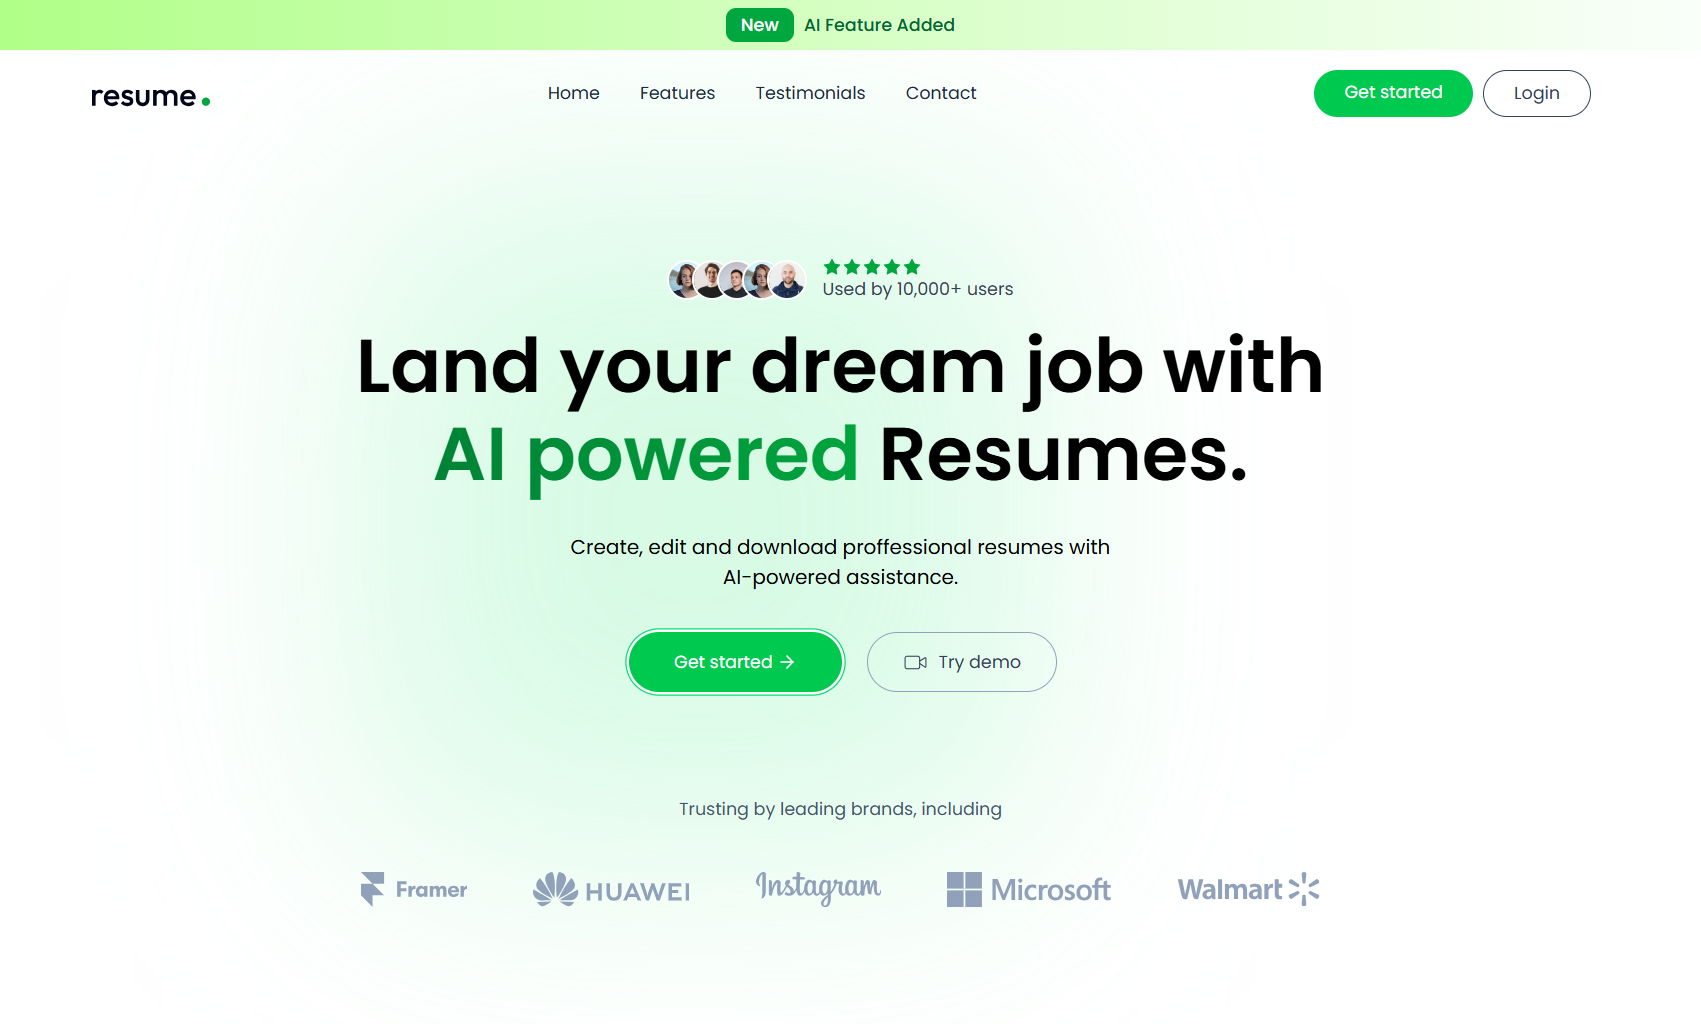
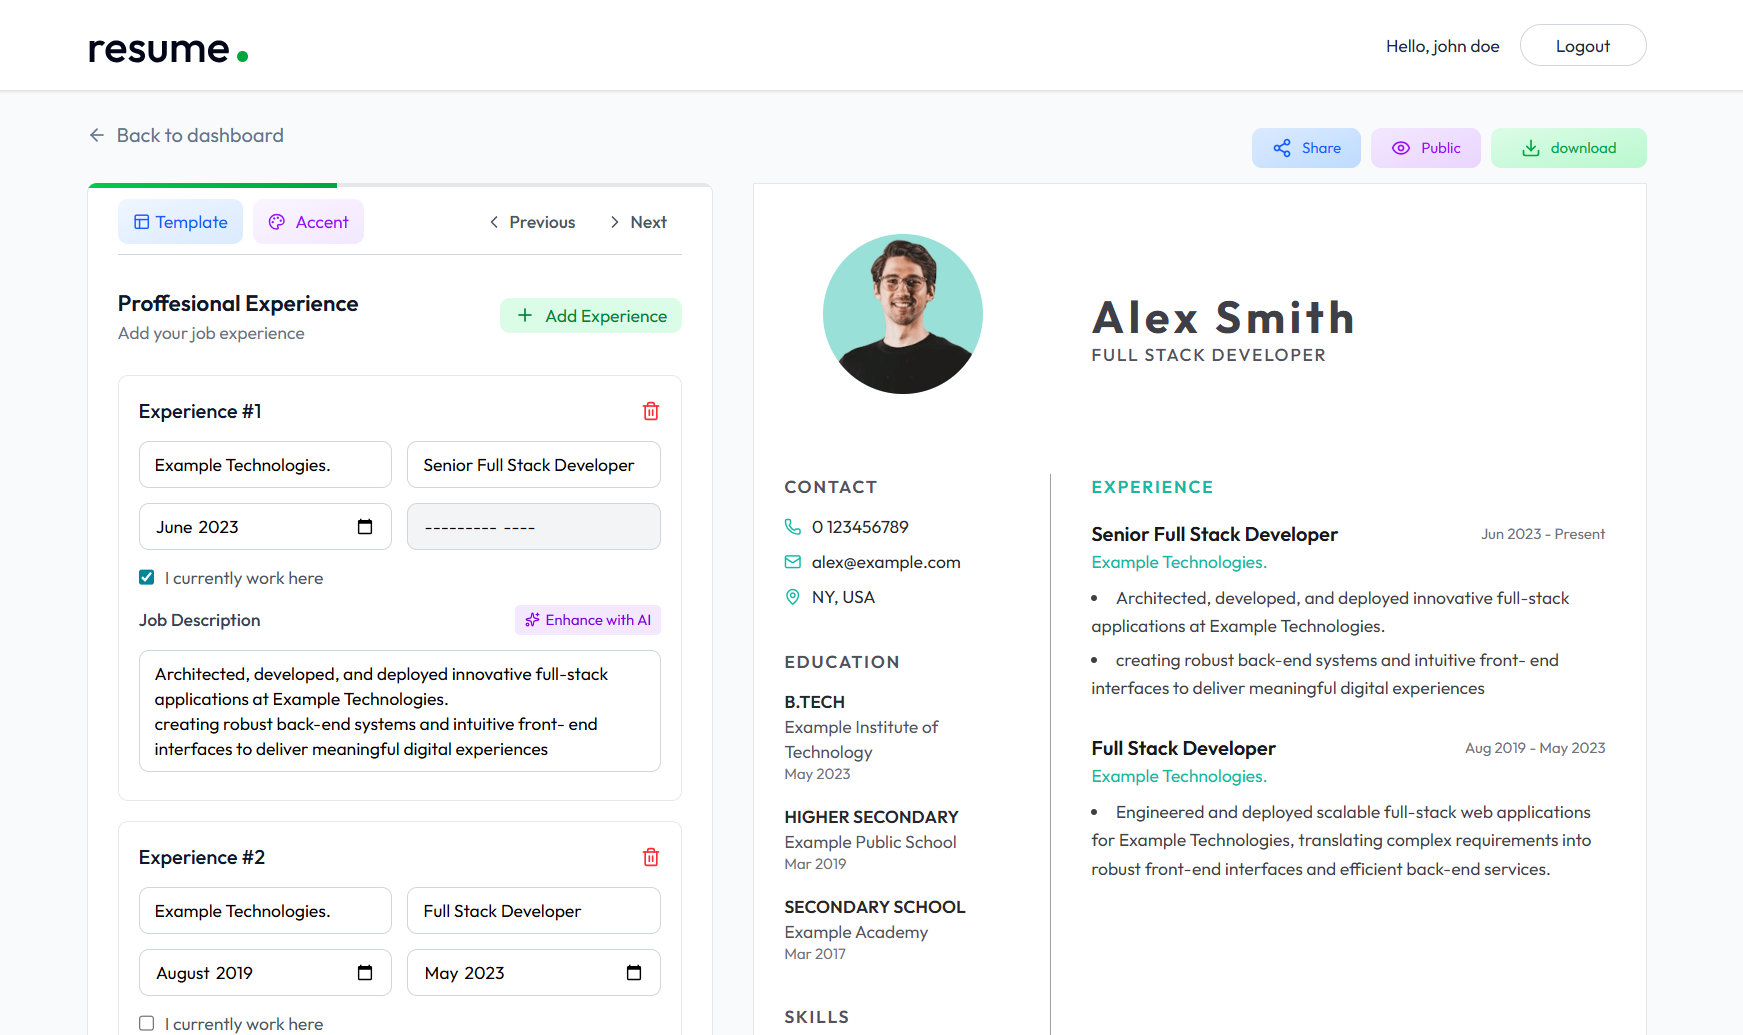
...

diff --git a/src/components/Projects.js b/src/components/Projects.js
@@ -9,27 +9,23 @@ const Projects = () => {
       img: assets.sprivaten,
       title: "PIXEL-PERFECT VISUAL DESIGN",
       languages: ["html", "css"],
-      link: "https://sprivaten.netlify.app/",
+      githubLink: "https://github.com/giorgi583/final-project.git",
+      link: "https://giorgi583.github.io/final-project/",
       accents: ["pixel-perfect", "responsive", "accessibility", "semantic HTML", "CSS-only burger menu", "best practices", "SEO-friendly", "performance optimization"]
-    },
-    {
-      img: assets.ecommerce,
-      title: "E-COMMERCE WEBSITE",
-      languages: ["html", "css", "javascript"],
-      link: "https://ecommerce.netlify.app/",
-      accents: ["Theme preference (dark/light)", "FIlters and sorting", "responsive", "carousel", "accessibility", "Full form validations", "API integration", "multiple pages", "SEO-friendly", ]
     },
     {
       img: assets.movies,
       title: "MOVIES APP",
       languages: ["React", "Plain css"],
-      link: "https://moviesapp.netlify.app/",
+      githubLink: "https://github.com/giorgi583/react_final.git",
+      link: "https://giorgi583.github.io/react_final/",
       accents: ["Real APIs", "responsive", "Routes", "Real authorization/authentication", "multi-language", "theme prefference", "Skeleton loading", "product search", "pagination", "lazy loading", "movie details-page" ]
     },
     {
       img: assets.tictactoe,
       title: "TIC-TAC-TOE GAME",
       languages: ["React", "Plain css"],
+      githubLink: "https://github.com/giorgi583/Tic-tac-toe-game.git",
       link: "https://tictactoe.netlify.app/",
       accents: ["Game logic", "responsive", "colors prefference", "vs computer", "vs friend", "scoreboard", "reset game", "animations", "computer dificulties", "sounds" ]
     },
@@ -37,15 +33,33 @@ const Projects = () => {
       img: assets.aiagency,
       title: "AGENCY-AI LANDING PAGE",
       languages: ["React/vite", "Tailwind css"],
+      githubLink: "https://github.com/giorgi583/Agency-AI.git",
       link: "https://aia.netlify.app/",
       accents: ["motion effects", "custom cursor", "Real Form submission", "responsive", "theme prefference(dark/light)", "toast notifications",  "modern design", "smooth animations" ]
     },
     {
       img: assets.resume,
       title: "AI RESUME BUILDER",
-      languages: ["React/vite", "Tailwind css", "Nodejs", "Express", "MongoDB"],
+      languages: ["React/vite", "Tailwind css", "Nodejs", "MongoDB"],
+      githubLink: "https://github.com/giorgi583/Resume-builder-website.git",
       link: "https://resumebuilderai.netlify.app/",
-      accents: ["AI integration", "Full-stack", "Real Authorization/authentication", "responsive", "API integration", "theme prefference(accent colors)", "user-friendly",  "modern design", "smooth animations" ]
+      accents: [ "Full-stack", "Real authentication", "AI features", "responsive", "API integration", "theme prefference(accent colors)", "user-friendly",  "modern design", "routes" ]
+    },
+    {
+      img: assets.ecommerce,
+      title: "E-COMMERCE STORE",
+      languages: ["React/vite", "Tailwind css", "Nodejs", "PostgreSQL"],
+      githubLink: "https://github.com/giorgi583/e-commerce.git",
+      link: "https://ecommercestore.netlify.app/",
+      accents: [ "Full-stack", "Real Authorization/authentication", "admin pages", "responsive", "Lazy loading", "user-friendly", "pagination", "filtering",  "API integration",  "routes" ]
+    },
+    {
+      img: assets.financial,
+      title: "FINANCIAL TRACKER",
+      languages: ["React/vite", "Tailwind css", "Nodejs", "PostgreSQL"],
+      githubLink: "https://github.com/giorgi583/financial-tracker.git",
+      link: "https://financial.netlify.app/",
+      accents: [ "Full-stack", "Real authentication", "responsive", "multi-language", "API integration", "theme prefference(accent colors && dark/light)", "user-friendly",  "modern design", "routes", "anaytics" ]
     }
   ]
   return (

diff --git a/src/components/Experience.js b/src/components/Experience.js
@@ -2,7 +2,7 @@ import React from 'react'
 import { color, motion } from 'motion/react'
 import '@fortawesome/fontawesome-free/css/all.min.css';
 const Experience = () => {
-  const exp = [{language: 'HTML',  icon: <i class="fa-brands fa-html5"></i>, color: '#e34f26'}, {language: 'CSS', icon: <i class="fa-brands fa-css3-alt"></i>, color: '#264de4'}, {language: 'JavaScript', icon: <i class="fa-brands fa-js"></i>, color: '#f7df1e'}, {language: 'Node.js', icon: <i class="fa-brands fa-node-js"></i>, color: '#68a063'}, {language: 'React', icon: <i class="fa-brands fa-react"></i>, color: '#61dbfb'}, {language: 'Sass', icon: <i class="fa-brands fa-sass"></i>, color: '#c69'}, {language: 'Figma', icon: <i class="fa-brands fa-figma"></i>, color: '#f24e1e'}, {language: 'Git', icon: <i class="fa-brands fa-git-alt"></i>, color: '#f34f29'}, {language: 'GitHub', icon: <i class="fa-brands fa-github"></i>, color: '#000000'}, {language: 'Tailwind', icon: <i class="fa-brands fa-tailwind-css"></i>, color: '#06b6d4'}, {language: 'Bootstrap', icon: <i class="fa-brands fa-bootstrap"></i>, color: '#7952b3'}, {language: 'NPM', icon: <i class="fa-brands fa-npm"></i>, color: '#cb3837'}, {language: 'express', icon: <i class="fa-solid fa-server"></i>, color: '#000000'}, {language: 'MongoDB', icon: <i class="fa-brands fa-mdb"></i>, color: '#4db33d'}, {language: 'PostgreSQL', icon: <i class="fa-solid fa-database"></i>, color: '#00758f'}, {language: 'TypeScript', icon: <i class="fa-brands fa-typescript"></i>, color: '#007acc'}]
+  const exp = [{language: 'HTML',  icon: <i class="fa-brands fa-html5"></i>, color: '#e34f26'}, {language: 'CSS', icon: <i class="fa-brands fa-css3-alt"></i>, color: '#264de4'}, {language: 'JavaScript', icon: <i class="fa-brands fa-js"></i>, color: '#f7df1e'}, {language: 'Node.js', icon: <i class="fa-brands fa-node-js"></i>, color: '#68a063'}, {language: 'React', icon: <i class="fa-brands fa-react"></i>, color: '#61dbfb'}, {language: 'Figma', icon: <i class="fa-brands fa-figma"></i>, color: '#f24e1e'}, {language: 'Git', icon: <i class="fa-brands fa-git-alt"></i>, color: '#f34f29'}, {language: 'Docker', icon: <i class="fa-brands fa-docker"></i>, color: '#2495ff'}, {language: 'Tailwind', icon: <i class="fa-brands fa-tailwind-css"></i>, color: '#06b6d4'}, {language: 'Linux', icon: <i class="fa-brands fa-linux"></i>, color: '#4700b1'},  {language: 'NPM', icon: <i class="fa-brands fa-npm"></i>, color: '#cb3837'}, {language: 'express', icon: <i class="fa-solid fa-server"></i>, color: '#000000'}, {language: 'MongoDB', icon: <i class="fa-brands fa-mdb"></i>, color: '#4db33d'}, {language: 'PostgreSQL', icon: <i class="fa-brands fa-postgresql"></i>, color: '#00758f'}, {language: 'TypeScript', icon: <i class="fa-brands fa-typescript"></i>, color: '#007acc'}, {language: 'Python', icon: <i class="fa-brands fa-python"></i>, color: '#3776ab'}]
   return (
     <section className="section2" id='skills'>
       <div className="container">

diff --git a/src/index.css b/src/index.css
@@ -117,7 +117,7 @@ i {
   z-index: 1000;
 }
 .rocket {
-  animation: rocket 0.1s linear infinite;
+  animation: rocket 0.1s linear infinite alternate;
   transform: rotate(45deg);
   color: var(--primary);
   
@@ -127,7 +127,7 @@ i {
     transform: translateX(0);
   }
   50% {
-    transform: translateX(-200%);
+    transform: translateX(-400%);
   }
   100% {
     transform: translateX(0);
@@ -293,9 +293,8 @@ button {
 .profileimage {
   width: 174.21px;
   margin: auto;
-  margin-top: 49px;
-  margin-bottom: 40px;
-  filter: grayscale(100%);
+  margin-top: 60px;
+  margin-bottom: 30px;
   animation: float 5s ease-in-out infinite;
 }
 @keyframes float {
@@ -600,7 +599,6 @@ form button {
   max-width: 100%;
   gap: 10px;
   flex-wrap: nowrap;
-  transition: all 5s linear;
 }
 .conttext p {
   margin: 0;
@@ -616,7 +614,7 @@ form button {
   align-items: center;
 }
 .card:hover .emphasis {
-  animation: scroll 10s linear infinite;
+  animation: scroll 15s linear infinite;
 }
 .emphasis:hover {
   animation-play-state: paused !important;
@@ -778,7 +776,20 @@ flex-shrink: 0;
     cursor: pointer;
     transform: scale(1.3);
   }
-  
+  .card:hover .emphasis {
+  animation: scroll 15s linear infinite;
+}
+  @keyframes scroll {
+  0% {
+    transform: translateX(0);
+  }
+  50% {
+    transform: translateX(-400%);
+  }
+  100% {
+    transform: translateX(0);
+  }
+}
   .expdivs {
     grid-template-columns: repeat(2, 1fr);
   }
@@ -943,6 +954,20 @@ flex-shrink: 0;
     font-size: 2rem;
     letter-spacing: -0.44px;
   }
+   .card:hover .emphasis {
+  animation: scroll 15s linear infinite;
+}
+  @keyframes scroll {
+  0% {
+    transform: translateX(0);
+  }
+  50% {
+    transform: translateX(-200%);
+  }
+  100% {
+    transform: translateX(0);
+  }
+}
     .section1 {
     position: relative;
     display: flex;

diff --git a/src/components/ProjectsCard.js b/src/components/ProjectsCard.js
@@ -7,8 +7,8 @@ const ProjectsCard = ({project}) => {
     variants={{"hidden": {y: 20, opacity: 0}, "visible": {y: 0, opacity: 1}}}
     className="card">
           <div className="cardimg"><img className="cardimage" src={project.img} alt=""/>
-            <div className="overlay"> <button className="deskbtn">view project</button> <button className="deskbtn">view
-                code</button></div>
+            <div className="overlay"> <button className="deskbtn"><a href={project.link} target="_blank" rel="noopener noreferrer">view project</a></button> <button className="deskbtn"><a href={project.githubLink} target="_blank" rel="noopener noreferrer">view
+                code</a></button></div>
           </div>
           <h3 className="s3h3">{project.title}</h3>
           <div className="cardp">
@@ -16,16 +16,18 @@ const ProjectsCard = ({project}) => {
             <p>ACCENTS:</p> 
             <ul className="emphasis">
               {project.accents && project.accents.map((item, index) => (
+        
                 <li className="s3li" key={index} >
-                  <Check size={16} />
+                  <Check size={16} color="#f7df1e"/>
                   {item}
                 </li>
+              
               ))}
             </ul>
           </div>
           <div className="cardbtns">
-            <button className="btn">view project</button>
-            <button className="btn">view code</button>
+            <button className="btn"><a href={project.link} target="_blank" rel="noopener noreferrer">view project</a></button>
+            <button className="btn"><a href={project.githubLink} target="_blank" rel="noopener noreferrer">view code</a></button>
           </div>
         </motion.div>
   )

diff --git a/src/components/Footer.js b/src/components/Footer.js
@@ -73,12 +73,12 @@ Toast.error(error.message)
       <h1>Socials</h1>
       <nav>
         <ul>
-          <li><a target="_blank" href="https://github.com/giorgi583"><i className="fa-brands fa-github"></i></a></li>
-          <li><a target="_blank" href="https://www.frontendmentor.io/profile/giorgi583" className="frontend"><img
+          <li><a target="_blank" aria-label='view my github' href="https://github.com/giorgi583"><i className="fa-brands fa-github"></i></a></li>
+          <li><a target="_blank" aria-label='view my frontend' href="https://www.frontendmentor.io/profile/giorgi583" className="frontend"><img
                 src={theme === "dark" ? assets.frontend : assets.frontendBlack} alt="frontend icon" width="19.68"/></a></li>
-          <li><a target="_blank" href="https://www.linkedin.com/in/giorgi-kutateladze-45086323b/"><i
+          <li><a target="_blank" aria-label='view my linkedin' href="https://www.linkedin.com/in/giorgi-kutateladze-45086323b/"><i
                 className="fa-brands fa-linkedin"></i></a></li>
-          <li><a target="_blank" href="https://www.facebook.com/giorgi.kutateladze.14"><i
+          <li><a target="_blank" aria-label='view my facebook' href="https://www.facebook.com/giorgi.kutateladze.14"><i
                 className="fa-brands fa-facebook"></i></a></li>
         </ul>
       </nav>

diff --git a/src/assets/assets.js b/src/assets/assets.js
@@ -2,16 +2,17 @@ import sprivaten from './projectPics/sprivaten.png'
 import ecommerce from './projectPics/ecommerce.png'
 import movies from './projectPics/movies.png'
 import tictactoe from './projectPics/tictactoe.png'
+import financial from './projectPics/financial.png'
 import aiagency from './projectPics/ai-agency.png'
 import resume from './projectPics/resume.png'
 import frontendBlack from './frontendmentor-svgrepo-com (4).svg'
 import frontend from './frontendmentor-svgrepo-com (3).svg'
 import group from './Group26.png'
 import oval from './Oval.svg'
-import pimg from './pimg.png'
+import avatar from './avatar.svg'
 import dark from "./dark_mode_24dp_000000_FILL0_wght400_GRAD0_opsz24.svg"
 import light from './light_mode_24dp_FFFFFF_FILL0_wght400_GRAD0_opsz24.svg'
 
-const assets = { sprivaten, ecommerce, movies, tictactoe, aiagency, resume, frontend, frontendBlack, group, oval, pimg, dark, light }
+const assets = { sprivaten, ecommerce, movies, tictactoe, financial, aiagency, resume, frontend, frontendBlack, group, oval, avatar, dark, light }
 
 export default assets

diff --git a/src/components/Hero.js b/src/components/Hero.js
@@ -17,7 +17,7 @@ const Hero = () => {
       animate={{y: 0, opacity: 1}}
       transition={{duration: 0.5, delay: 0.5}}
       className="profileimage">
-        <img className="profileimg" src={assets.pimg} alt="my image" />
+        <img className="profileimg" src={assets.avatar} alt="my image" />
       </motion.div>
       <div className="container">
       <motion.div 
@@ -27,7 +27,7 @@ const Hero = () => {
       className="maintxt">
         <h2 className="mainttl">Nice to meet you! I’m Giorgi.</h2>
         <p className="mainp">Based in Georgia, I’m a full stack developer passionate about building accessible websites that
-          users love, Specializing in modern web technologies and responsive design.</p>
+          users love, Specializing in modern web technologies, responsive design and accessibility as weel as cyber-security.</p>
         <button><a href="#contact">contact me</a></button>
       </motion.div>
       </div>

diff --git a/src/components/Header.js b/src/components/Header.js
@@ -32,7 +32,7 @@ const Header = ({theme, setTheme}) => {
           <li><a onClick={()=> setsidebaropen(false)} href="#contact">Contact</a></li>
         </ul>
       </nav>
-      <div className='dark-mode' aria-label='theme switch' onClick={() => setTheme(theme === "dark" ? "light" : "dark")}><img src={theme=== "dark" ? assets.light : assets.dark}  alt="" /></div>
+      <div className='dark-mode' onClick={() => setTheme(theme === "dark" ? "light" : "dark")}><img src={theme=== "dark" ? assets.light : assets.dark}  alt="" /></div>
     </div>
     <div className={`overlay-full ${sidebarOpen ? 'active' : ''}`}></div>
   </motion.header>
